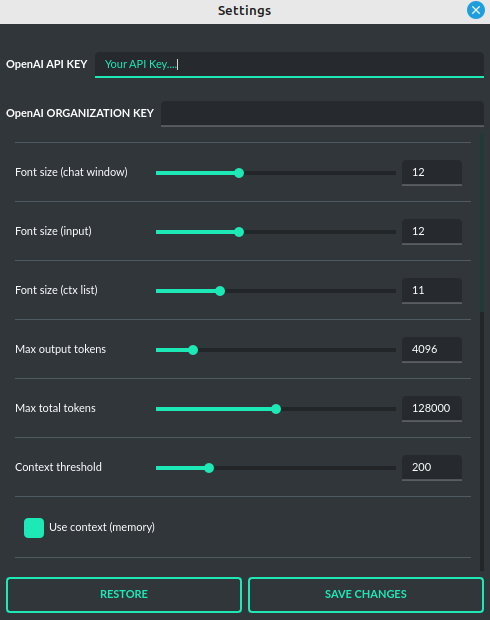
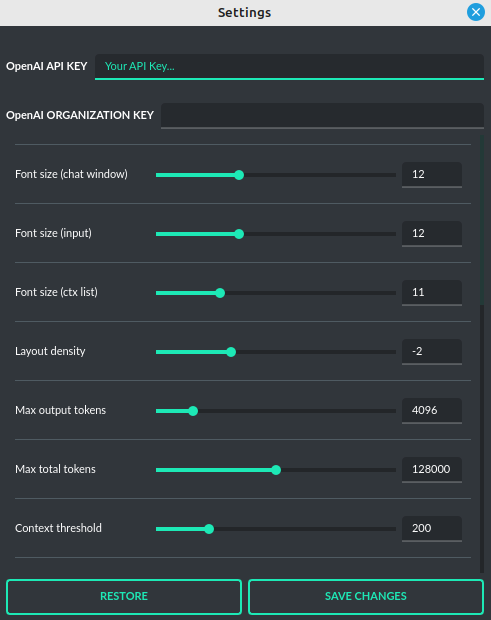
Added layout density option

diff --git a/src/pygpt_net/core/updater.py b/src/pygpt_net/core/updater.py
@@ -176,6 +176,10 @@ class Updater:
         old = parse_version(version)
         current = parse_version(self.window.version)
         if old < current:
+            if old < parse_version("2.0.6"):
+                if 'layout.density' not in data:
+                    data['layout.density'] = -2
+                updated = True
             if old < parse_version("2.0.1"):
                 if 'send_mode' not in data:
                     data['send_mode'] = 1

diff --git a/setup.py b/setup.py
@@ -1,6 +1,6 @@
 from setuptools import setup, find_packages
 
-VERSION = '2.0.5'
+VERSION = '2.0.6'
 DESCRIPTION = 'AI Desktop Assistant powered by GPT-4, GPT-4V, GPT-3, Whisper, TTS and DALL-E 3 with chat, assistant, text completion, ' \
               'vision and image generation'
 LONG_DESCRIPTION = 'A package containing a GPT-4, GPT-4V, GPT-3, Whisper, TTS and DALL-E 3 AI desktop assistant, chatbot, ' \

diff --git a/src/pygpt_net/core/app.py b/src/pygpt_net/core/app.py
@@ -111,7 +111,7 @@ class MainWindow(QMainWindow, QtStyleTools):
         """
         inverse = False
         extra = {
-            'density_scale': '-2',
+            'density_scale': self.config.data['layout.density'],
             'pyside6': True,
         }
         self.apply_stylesheet(self, theme, invert_secondary=inverse, extra=extra)

diff --git a/src/pygpt_net/__init__.py b/src/pygpt_net/__init__.py
@@ -13,7 +13,7 @@ __author__ = "Marcin Szczygliński"
 __copyright__ = "Copyright 2023, Marcin Szczygliński"
 __credits__ = ["Marcin Szczygliński"]
 __license__ = "MIT"
-__version__ = "2.0.5"
+__version__ = "2.0.6"
 __build__ = "2023.12.08"
 __maintainer__ = "Marcin Szczygliński"
 __github__ = "https://github.com/szczyglis-dev/py-gpt"

diff --git a/docs/source/conf.py b/docs/source/conf.py
@@ -9,7 +9,7 @@
 project = 'PYGPT'
 copyright = '2023, pygpt.net'
 author = 'szczyglis-dev, Marcin Szczygliński'
-release = '2.0.5'
+release = '2.0.6'
 
 # -- General configuration ---------------------------------------------------
 # https://www.sphinx-doc.org/en/master/usage/configuration.html#general-configuration

diff --git a/README.md b/README.md
@@ -1,6 +1,6 @@
 # PYGPT v2
 
-Release: **2.0.5** build: **2023.12.08** | Official website: https://pygpt.net | Docs: https://pygpt.readthedocs.io
+Release: **2.0.6** build: **2023.12.08** | Official website: https://pygpt.net | Docs: https://pygpt.readthedocs.io
 
 PyPi: https://pypi.org/project/pygpt-net
 
@@ -171,7 +171,7 @@ Config -> Settings...
 
 and then paste the API key into the `OpenAI API KEY` field.
 
-![v2_settings](https://github.com/szczyglis-dev/py-gpt/assets/61396542/3e512856-6a25-4151-a65b-36efb97831e2)
+![v2_settings](https://github.com/szczyglis-dev/py-gpt/assets/61396542/07bc916d-7049-4224-81db-08b6b05bec20)
 
 The API key can be obtained by registering on the OpenAI website:
 
@@ -799,13 +799,13 @@ a particular query will consume and displays this estimate in real time. This gi
 control over your token usage. The app provides detailed information about the tokens used for the user's prompt, 
 the system prompt, any additional data, and those used within the context (the memory of previous entries).
 
-![v2_tokens1](https://github.com/szczyglis-dev/py-gpt/assets/61396542/f25814a7-849a-405e-9e72-36e5985484f6)
+![v2_tokens1](https://github.com/szczyglis-dev/py-gpt/assets/61396542/4cefdb35-016d-49a6-be05-50a980388323)
 
 ## Total tokens
 
 After receiving a response from the model, the application displays the actual total number of tokens used for the query.
 
-![v2_tokens2](https://github.com/szczyglis-dev/py-gpt/assets/61396542/7f870fa4-bf69-4769-b400-6ef112c173f8)
+![v2_tokens2](https://github.com/szczyglis-dev/py-gpt/assets/61396542/ddaf8d94-8d2a-471a-84b2-5a97f680853a)
 
 # Configuration
 
@@ -817,7 +817,39 @@ The following basic options can be modified directly within the application:
 Config -> Settings...
 ```
 
-![v2_settings](https://github.com/szczyglis-dev/py-gpt/assets/61396542/3e512856-6a25-4151-a65b-36efb97831e2)
+![v2_settings](https://github.com/szczyglis-dev/py-gpt/assets/61396542/07bc916d-7049-4224-81db-08b6b05bec20)
+
+- `OpenAI API KEY`: The personal API key you'll need to enter into the application for it to function.
+
+- `OpenAI ORGANIZATION KEY`: The organization's API key, which is optional for use within the application.
+
+- `Font Size (chat window)`: Adjusts the font size in the chat window for better readability.
+
+- `Font Size (input)`: Adjusts the font size in the input window for better readability.
+
+- `Font Size (ctx list)`: Adjusts the font size in contexts list.
+
+- `Layout density`: Adjusts layout elements density. Default: -2.
+
+- `Max Output Tokens`: Determines the maximum number of tokens the model can generate for a single response.
+
+- `Max Total Tokens`: Defines the maximum token count that the application can send to the model, 
+including the conversation context. To prevent reaching the model capacity, this setting helps 
+manage the size of the context included in messages.
+
+- `Context Threshold`: Sets the number of tokens reserved for the model to respond to the next prompt. 
+This helps accommodate responses without exceeding the model's limit, such as 4096 tokens.
+
+- `Use Context`: Toggles the use of conversation context (memory of previous inputs). 
+When turned off, the context won't be saved or factored into conversation responses.
+
+- `Store History`: Dictates whether the conversation history and context are saved. 
+When turned off, history won't be written to the disk upon closing the application.
+
+- `Store Time in History`: Chooses whether timestamps are added to the .txt files. 
+These files are stored in the *history* directory within the user's work directory.
+
+- `Context Auto-summary`: Toggles context auto-summarization on contexts list. (GPT-3.5 is used for this)
 
 - `Temperature`: Sets the randomness of the conversation. A lower value makes the model's 
 responses more deterministic, while a higher value increases creativity and abstraction.
@@ -829,36 +861,6 @@ For more information, please check the OpenAI documentation.
 
 - `Presence Penalty`: Discourages the model from mentioning topics that have already been 
 brought up in the conversation.
-
-- `Use Context`: Toggles the use of conversation context (memory of previous inputs). 
-When turned off, the context won't be saved or factored into conversation responses.
-
-- `Context Auto-summary`: Toggles context auto-summarization on contexts list. (GPT-3.5 is used for this)
-
-- `Store History`: Dictates whether the conversation history and context are saved. 
-When turned off, history won't be written to the disk upon closing the application.
-
-- `Store Time in History`: Chooses whether timestamps are added to the .txt files. 
-These files are stored in the *history* directory within the user's work directory.
-
-- `Context Threshold`: Sets the number of tokens reserved for the model to respond to the next prompt. 
-This helps accommodate responses without exceeding the model's limit, such as 4096 tokens.
-
-- `Max Output Tokens`: Determines the maximum number of tokens the model can generate for a single response.
-
-- `Max Total Tokens`: Defines the maximum token count that the application can send to the model, 
-including the conversation context. To prevent reaching the model capacity, this setting helps 
-manage the size of the context included in messages.
-
-- `Font Size (chat window)`: Adjusts the font size in the chat window for better readability.
-
-- `Font Size (input)`: Adjusts the font size in the input window for better readability.
-
-- `Font Size (ctx list)`: Adjusts the font size in contexts list.
-
-- `OpenAI API KEY`: The personal API key you'll need to enter into the application for it to function.
-
-- `OpenAI ORGANIZATION KEY`: The organization's API key, which is optional for use within the application.
 
 - `Auto-summary system prompt`: System prompt for context auto-summary (GPT-3.5 is used for this)
 
@@ -949,6 +951,10 @@ may consume additional tokens that are not displayed in the main window.
 ---
 
 # CHANGELOG
+
+## 2.0.6 (2023-12-08)
+
+- Added layout density configuration
 
 ## 2.0.5 (2023-12-08)
 

diff --git a/docs/source/configuration.rst b/docs/source/configuration.rst
@@ -13,22 +13,23 @@ The following basic options can be modified directly within the application:
 .. image:: images/v2_settings.png
    :width: 400
 
+* ``OpenAI API KEY`` The personal API key you'll need to enter into the application for it to function.
+* ``OpenAI ORGANIZATION KEY`` The organization's API key, which is optional for use within the application.
+* ``Font Size (chat window)`` Adjusts the font size in the chat window for better readability.
+* ``Font Size (input)`` Adjusts the font size in the input window for better readability.
+* ``Font Size (ctx list)`` Adjusts the font size in contexts list.
+* ``Layout density`` Adjusts layout elements density. Default: -2.
+* ``Max Output Tokens`` Determines the maximum number of tokens the model can generate for a single response.
+* ``Max Total Tokens`` Defines the maximum token count that the application can send to the model, including the conversation context. To prevent reaching the model capacity, this setting helps manage the size of the context included in messages.
+* ``Context Threshold`` Sets the number of tokens reserved for the model to respond to the next prompt. This helps accommodate responses without exceeding the model's limit, such as 4096 tokens.
+* ``Use Context`` Toggles the use of conversation context (memory of previous inputs). When turned off, the context won't be saved or factored into conversation responses.
+* ``Store History`` Dictates whether the conversation history and context are saved. When turned off, history won't be written to the disk upon closing the application.
+* ``Store Time in History`` Chooses whether timestamps are added to the .txt files. These files are stored in the *history* directory within the user's work directory.
+* ``Context Auto-summary`` Toggles context auto-summarization on contexts list. (GPT-3.5 is used for this)
 * ``Temperature`` Sets the randomness of the conversation. A lower value makes the model's responses more deterministic, while a higher value increases creativity and abstraction.
 * ``Top-p`` A parameter that influences the model's response diversity, similar to temperature. For more information, please check the OpenAI documentation.
 * ``Frequency Penalty`` Decreases the likelihood of repetition in the model's responses.
 * ``Presence Penalty`` Discourages the model from mentioning topics that have already been brought up in the conversation.
-* ``Use Context`` Toggles the use of conversation context (memory of previous inputs). When turned off, the context won't be saved or factored into conversation responses.
-* ``Context Auto-summary`` Toggles context auto-summarization on contexts list. (GPT-3.5 is used for this)
-* ``Store History`` Dictates whether the conversation history and context are saved. When turned off, history won't be written to the disk upon closing the application.
-* ``Store Time in History`` Chooses whether timestamps are added to the .txt files. These files are stored in the *history* directory within the user's work directory.
-* ``Context Threshold`` Sets the number of tokens reserved for the model to respond to the next prompt. This helps accommodate responses without exceeding the model's limit, such as 4096 tokens.
-* ``Max Output Tokens`` Determines the maximum number of tokens the model can generate for a single response.
-* ``Max Total Tokens`` Defines the maximum token count that the application can send to the model, including the conversation context. To prevent reaching the model capacity, this setting helps manage the size of the context included in messages.
-* ``Font Size (chat window)`` Adjusts the font size in the chat window for better readability.
-* ``Font Size (input)`` Adjusts the font size in the input window for better readability.
-* ``Font Size (ctx list)`` Adjusts the font size in contexts list.
-* ``OpenAI API KEY`` The personal API key you'll need to enter into the application for it to function.
-* ``OpenAI ORGANIZATION KEY`` The organization's API key, which is optional for use within the application.
 * ``Auto-summary system prompt`` System prompt for context auto-summary (GPT-3.5 is used for this)
 * ``Auto-summary instruction`` Summary prompt for context auto-summary (GPT-3.5 is used for this)
 

diff --git a/docs/source/index.rst b/docs/source/index.rst
@@ -6,11 +6,11 @@
 PYGPT v2 - pygpt.net
 ====================
 
-| **Last update:** 2023-12-08 16:00
+| **Last update:** 2023-12-08 17:00
 | **Project website:** https://pygpt.net
 | **GitHub:** https://github.com/szczyglis-dev/py-gpt
 | **PyPI:** https://pypi.org/project/pygpt-net
-| **Release:** 2.0.5 (2023-12-08)
+| **Release:** 2.0.6 (2023-12-08)
 
 .. toctree::
    :maxdepth: 3
